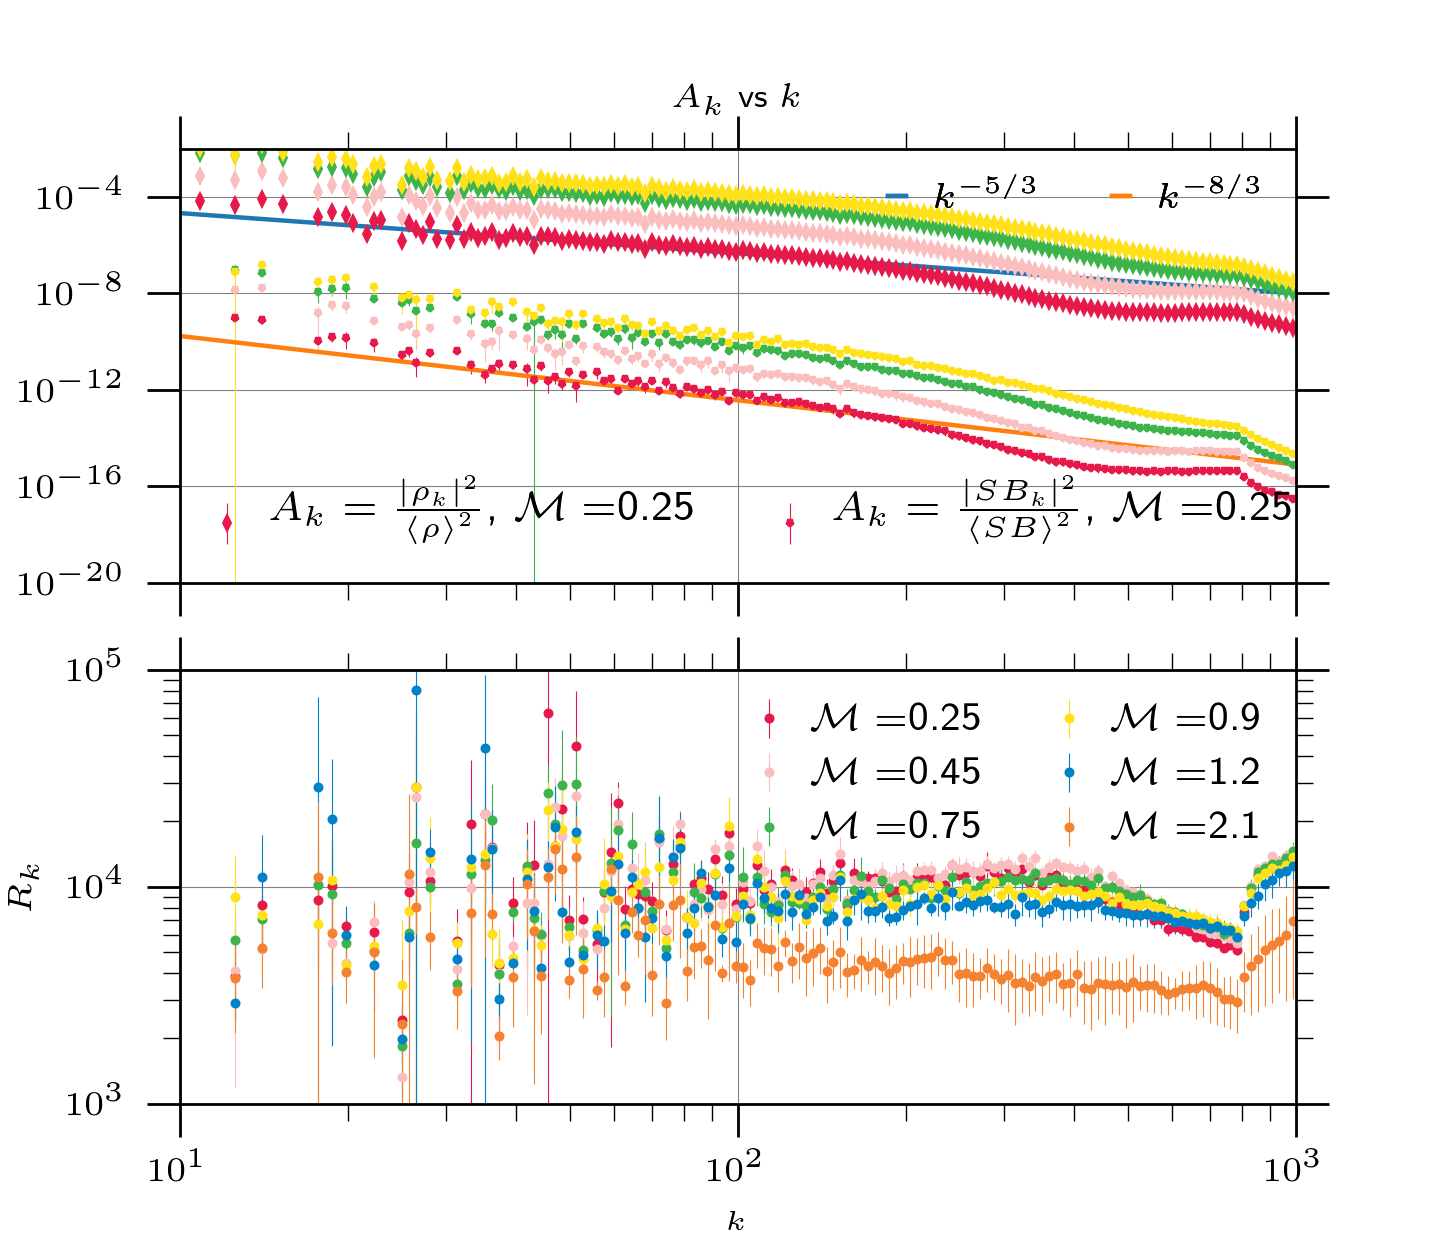
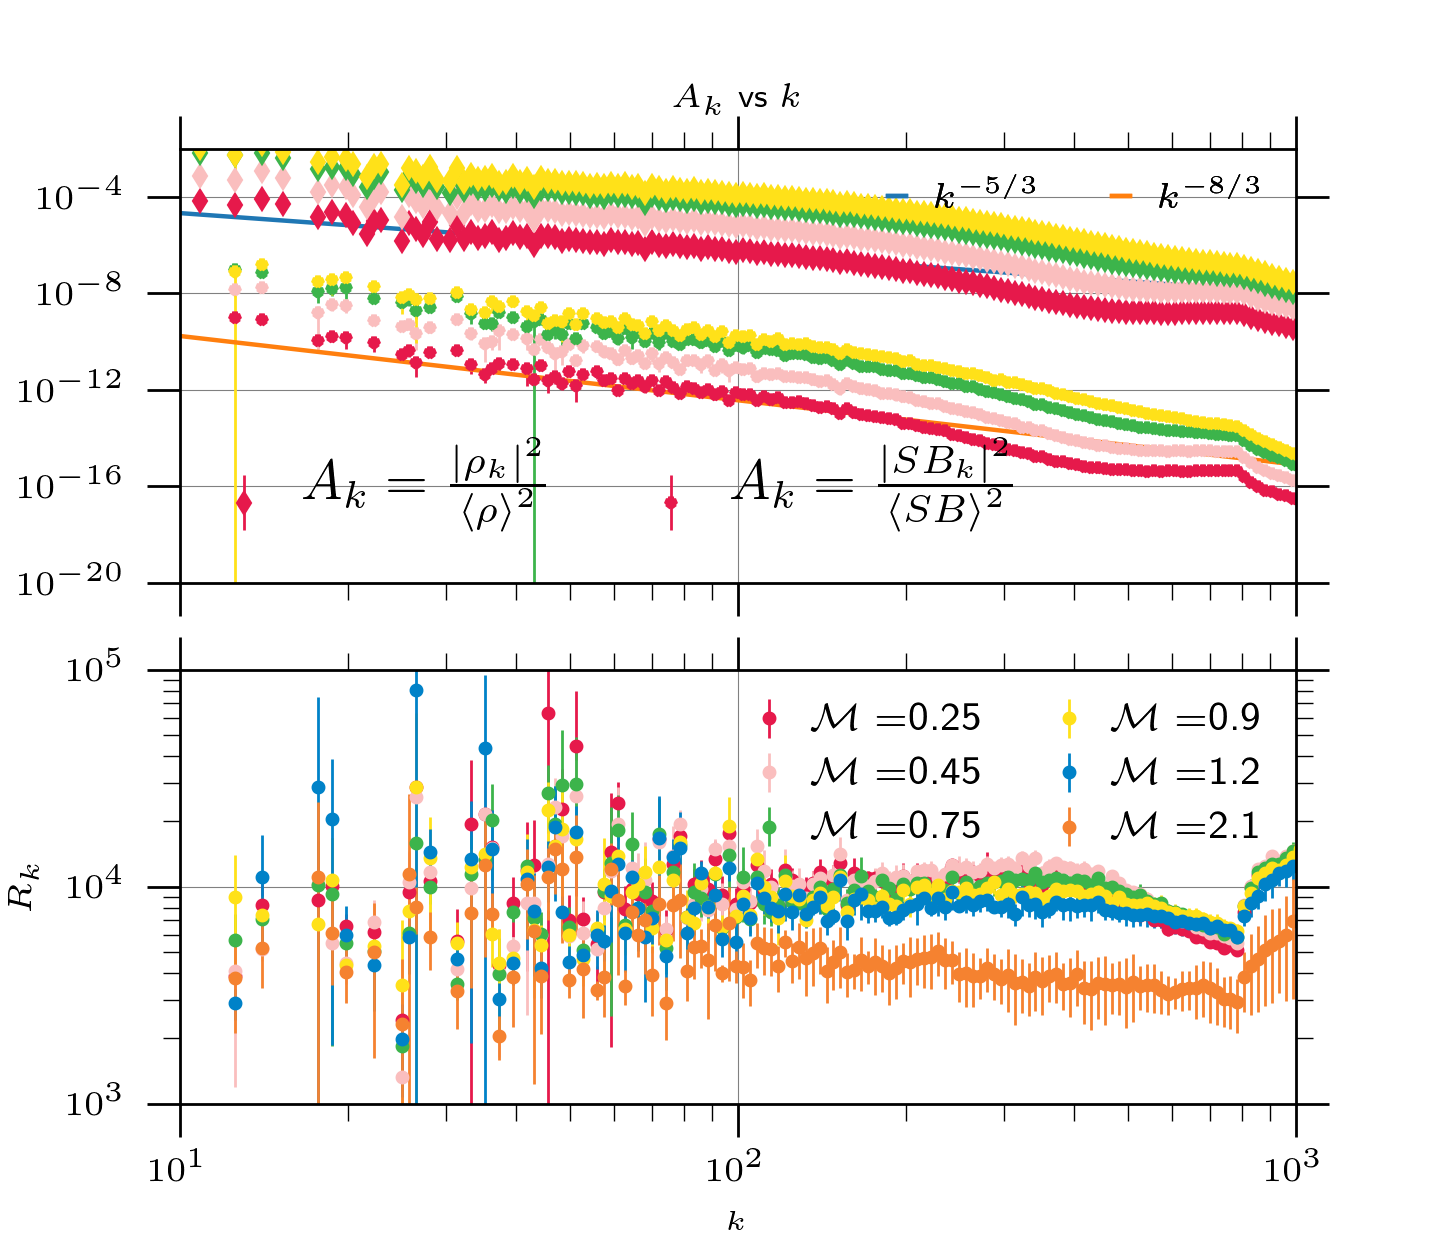
Edited a plot

diff --git a/surface_brightness/sbk_rhok.py b/surface_brightness/sbk_rhok.py
@@ -85,21 +85,21 @@ for i in xrange(amp.size):
 
 	j=i
 	if (j==0): 
-		leg1=r'$A_k=\frac{|\rho_k|^2}{\left<\rho\right>^2}$, $\mathcal{M}=$'+str(mach[i])
-		leg2=r'$A_k=\frac{|SB_k|^2}{\left<SB\right>^2}$, $\mathcal{M}=$'+str(mach[i])
-		spectra[2*j]=ax1.errorbar(k1[1:-20], Ek1[1:-20], fmt='d', yerr=del_Ek1[1:-20], color=colors[j], markeredgecolor=None, markersize=1., ecolor=None, capsize=None, barsabove=False, label=leg1, elinewidth=0.2)
-		spectra[2*j+1]=ax1.errorbar(k2[1:-20], Ek2[1:-20], yerr=del_Ek2[1:-20], fmt='*', color=colors[j], markeredgecolor=None, markersize=1., ecolor=None, capsize=None, barsabove=False, label=leg2, elinewidth=0.2)
+		leg1=r'$A_k=\frac{|\rho_k|^2}{\left<\rho\right>^2}$'
+		leg2=r'$A_k=\frac{|SB_k|^2}{\left<SB\right>^2}$'
+		spectra[2*j]=ax1.errorbar(k1[1:-20], Ek1[1:-20], fmt='d', yerr=del_Ek1[1:-20], color=colors[j], markeredgecolor=None, markersize=2.0, ecolor=None, capsize=None, barsabove=False, label=leg1, elinewidth=0.5)
+		spectra[2*j+1]=ax1.errorbar(k2[1:-20], Ek2[1:-20], yerr=del_Ek2[1:-20], fmt='*', color=colors[j], markeredgecolor=None, markersize=2.0, ecolor=None, capsize=None, barsabove=False, label=leg2, elinewidth=0.5)
 	elif (j<4):
-		ax1.errorbar(k1[1:-20], Ek1[1:-20], fmt='d', yerr=del_Ek1[1:-20], color=colors[j], markeredgecolor=None, markersize=1., ecolor=None, capsize=None, barsabove=False, elinewidth=0.2)
-		ax1.errorbar(k2[1:-20], Ek2[1:-20], yerr=del_Ek2[1:-20], fmt='*', color=colors[j], markeredgecolor=None, markersize=1., ecolor=None, capsize=None, barsabove=False, elinewidth=0.2)
+		ax1.errorbar(k1[1:-20], Ek1[1:-20], fmt='d', yerr=del_Ek1[1:-20], color=colors[j], markeredgecolor=None, markersize=2.0, ecolor=None, capsize=None, barsabove=False, elinewidth=0.5)
+		ax1.errorbar(k2[1:-20], Ek2[1:-20], yerr=del_Ek2[1:-20], fmt='*', color=colors[j], markeredgecolor=None, markersize=2.0, ecolor=None, capsize=None, barsabove=False, elinewidth=0.5)
 
-	ax2.errorbar(k2[1:-20], ratio_k[1:-20], yerr=del_ratiok[1:-20], fmt='o', color=colors[j], markeredgecolor=None, markersize=0.8, ecolor=None, capsize=None, barsabove=False, label= '$\mathcal{M}=$'+str(mach[i]), elinewidth=0.2)
+	ax2.errorbar(k2[1:-20], ratio_k[1:-20], yerr=del_ratiok[1:-20], fmt='o', color=colors[j], markeredgecolor=None, markersize=1.5, ecolor=None, capsize=None, barsabove=False, label= '$\mathcal{M}=$'+str(mach[i]), elinewidth=0.5)
 
 
 ax1.tick_params(axis='both', which='major', direction='out', length=6, width=0.5, top=True, right=True)
 ax1.tick_params(axis='both', which='minor', direction='out', length=3, width=0.25, top=True, right=True)
 ax1.grid(color='grey', linestyle='-', linewidth=0.2)
-spectra_legend=ax1.legend(handles=spectra, loc='lower left', ncol=4, fontsize=7.4)
+spectra_legend=ax1.legend(handles=spectra, loc='lower left', ncol=4, fontsize=10.)
 ax1.add_artist(spectra_legend)
 spectra_legend.get_frame().set_alpha(0.)
 
